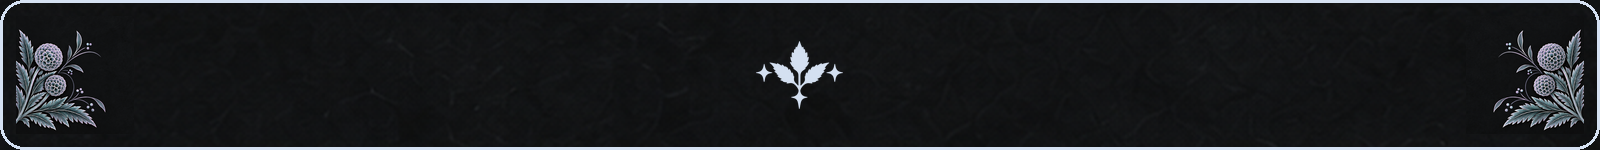
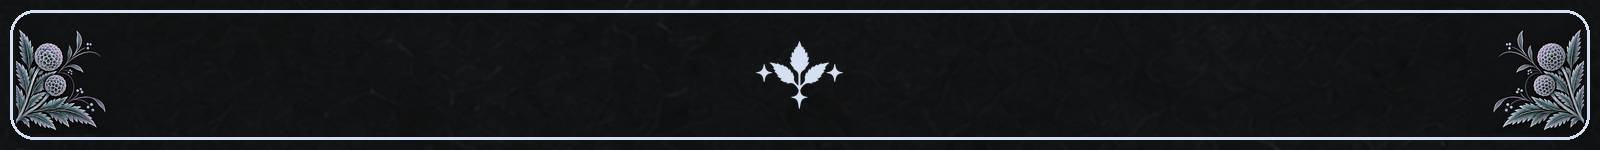
Updated embedded headers and footers

Changed region(s): [[0.0, 0.0533, 1.0, 0.9333], [0.0, 0.96, 1.0, 1.0], [0.0, 0.0, 1.0, 0.0267]]

diff --git a/tools/build_command_center_header.py b/tools/build_command_center_header.py
@@ -32,12 +32,12 @@ def build_header(*, framed: bool = False) -> Image.Image:
 def main() -> None:
     header = build_header(framed=False)
     # Same source width, outline color and thickness produce the same displayed border.
-    # A larger frame radius survives Discord's rounded media clipping without an inset.
-    header.alpha_composite(rectangular_frame("silver_neon", header.size, radius=24))
+    # Keep the entire outline inside Discord's rounded media clipping area.
+    header.alpha_composite(rectangular_frame("silver_neon", header.size, radius=24, inset=10))
     save_artwork(header, ROOT / "src/ky_bot/assets/header/ky_header_command_center.png")
     footer = floral_background("silver_neon", (1600, 150))
     footer.alpha_composite(centered_overlay("silver_neon", footer.size))
-    footer.alpha_composite(rectangular_frame("silver_neon", footer.size, radius=24))
+    footer.alpha_composite(rectangular_frame("silver_neon", footer.size, radius=24, inset=10))
     save_artwork(footer, ROOT / "src/ky_bot/assets/footer/ky_footer_command_center.png")
     # Render at 2x the usual 560px panel width, with larger Bold lettering and more leading.
     for title, filename in SETTINGS_TITLES.values():

diff --git a/src/ky_bot/services/footers.py b/src/ky_bot/services/footers.py
@@ -63,7 +63,9 @@ def capsule() -> Image.Image:
     return mask.resize(SIZE, Image.Resampling.LANCZOS)
 
 
-def rectangular_frame(style: str, size: tuple[int, int], *, radius: int = 8) -> Image.Image:
+def rectangular_frame(
+    style: str, size: tuple[int, int], *, radius: int = 8, inset: int = 0
+) -> Image.Image:
     """A quiet, proportionate outline that matches the illustrated floral collection."""
     from ky_bot.services.collection import COLOURS
 
@@ -72,7 +74,10 @@ def rectangular_frame(style: str, size: tuple[int, int], *, radius: int = 8) -> 
     frame = Image.new("RGBA", size)
     width, height = size
     ImageDraw.Draw(frame).rounded_rectangle(
-        (0, 0, width - 1, height - 1), radius=radius, outline=COLOURS[style], width=3
+        (inset, inset, width - 1 - inset, height - 1 - inset),
+        radius=radius,
+        outline=COLOURS[style],
+        width=3,
     )
     return frame
 
